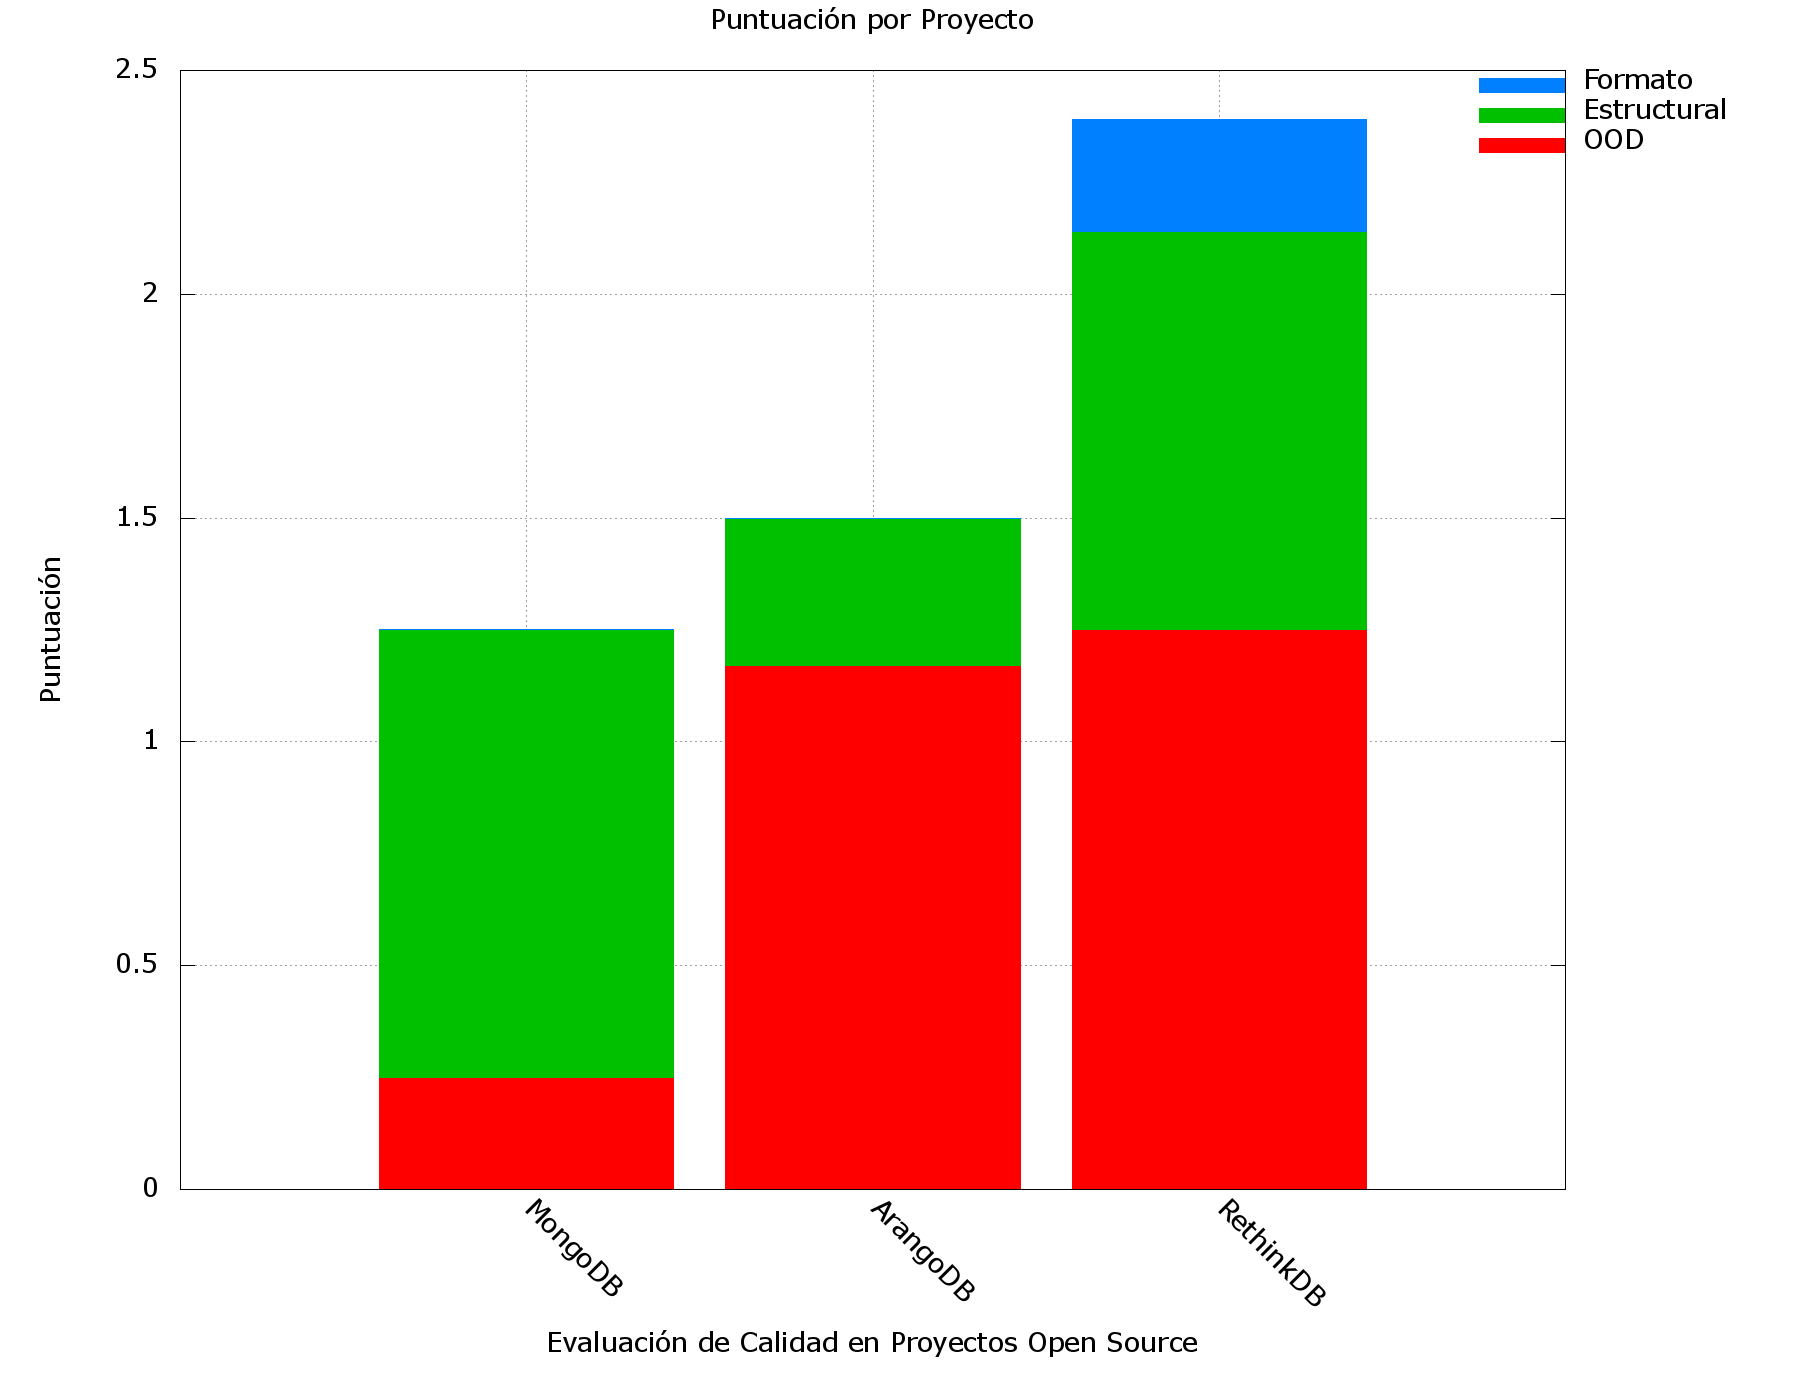
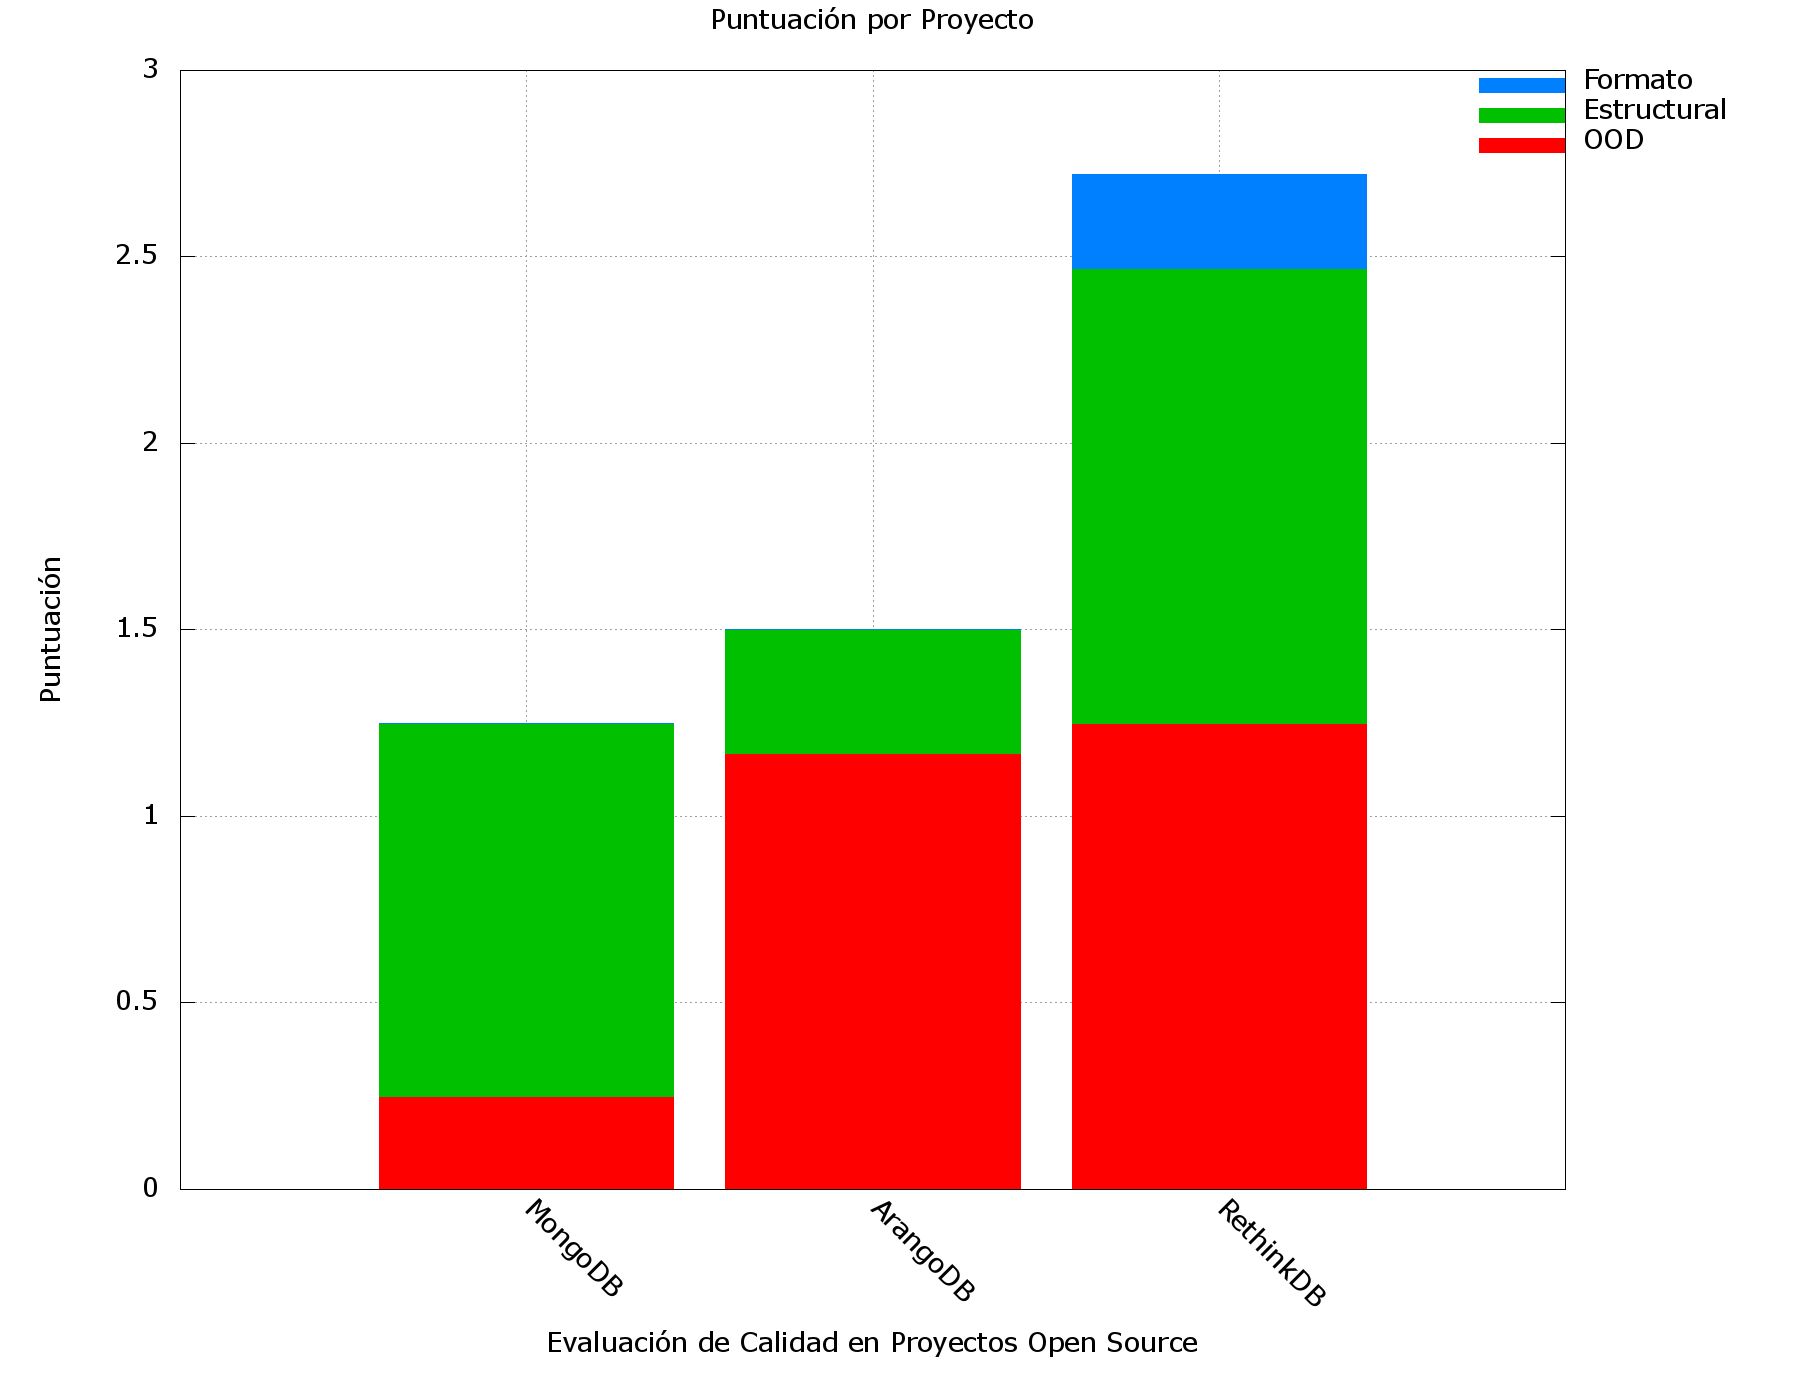
Fixing quality model error

diff --git a/final_project/finalwork.tex b/final_project/finalwork.tex
@@ -650,9 +650,9 @@ La puntuación de cada uno de los proyectos, clasificadas por categorías, junto
     \hline
     Código Duplicado & Existe código duplicado de entre 100 y 500 tokens & 3 & 33.33\% & 1\\
     \midrule
-    \textbf{Puntuación} & \multicolumn{4}{c|}{\textbf{2.67}}\\
+    \textbf{Puntuación} & \multicolumn{4}{c|}{\textbf{3.67}}\\
     \hline
-    \textbf{Puntuación ponderada (33.33\%)} & \multicolumn {4}{c|}{\textbf{0.89}}\\
+    \textbf{Puntuación ponderada (33.33\%)} & \multicolumn {4}{c|}{\textbf{1.22}}\\
     \midrule
     \multicolumn{5}{|c|}{\textbf{Métricas Formato de Código}}\\
     \hline
@@ -668,7 +668,7 @@ La puntuación de cada uno de los proyectos, clasificadas por categorías, junto
     \hline
     \textbf{Puntuación ponderada (33.33\%)} & \multicolumn {4}{c|}{\textbf{0.25}}\\   
     \midrule
-    \multicolumn{5}{|c|}{\textbf{Puntuación total: 1.25 + 0.89 + 0.25 = \hl{2.39}}}\\
+    \multicolumn{5}{|c|}{\textbf{Puntuación total: 1.25 + 1.22 + 0.25 = \hl{2.72}}}\\
     \bottomrule
     \end{tabular}
     \caption{Puntuación Proyecto RethinkDB}
